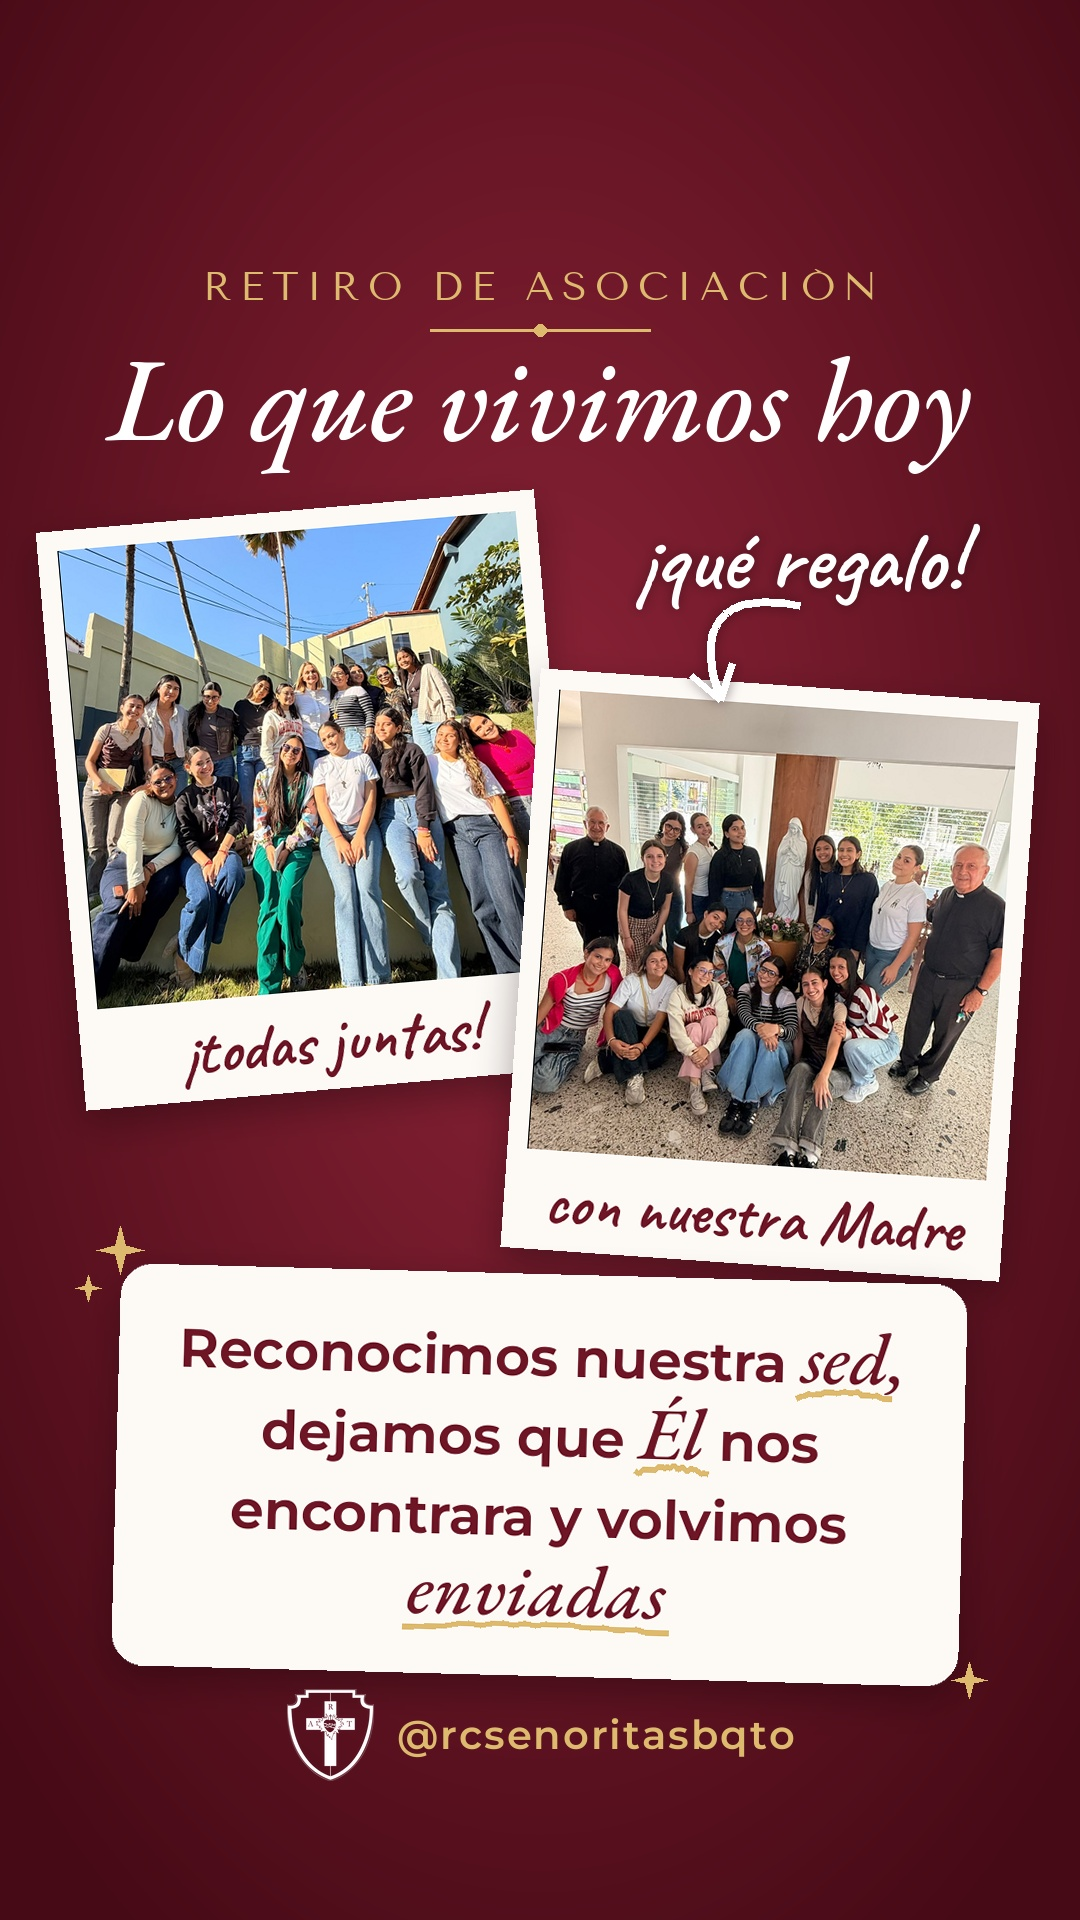
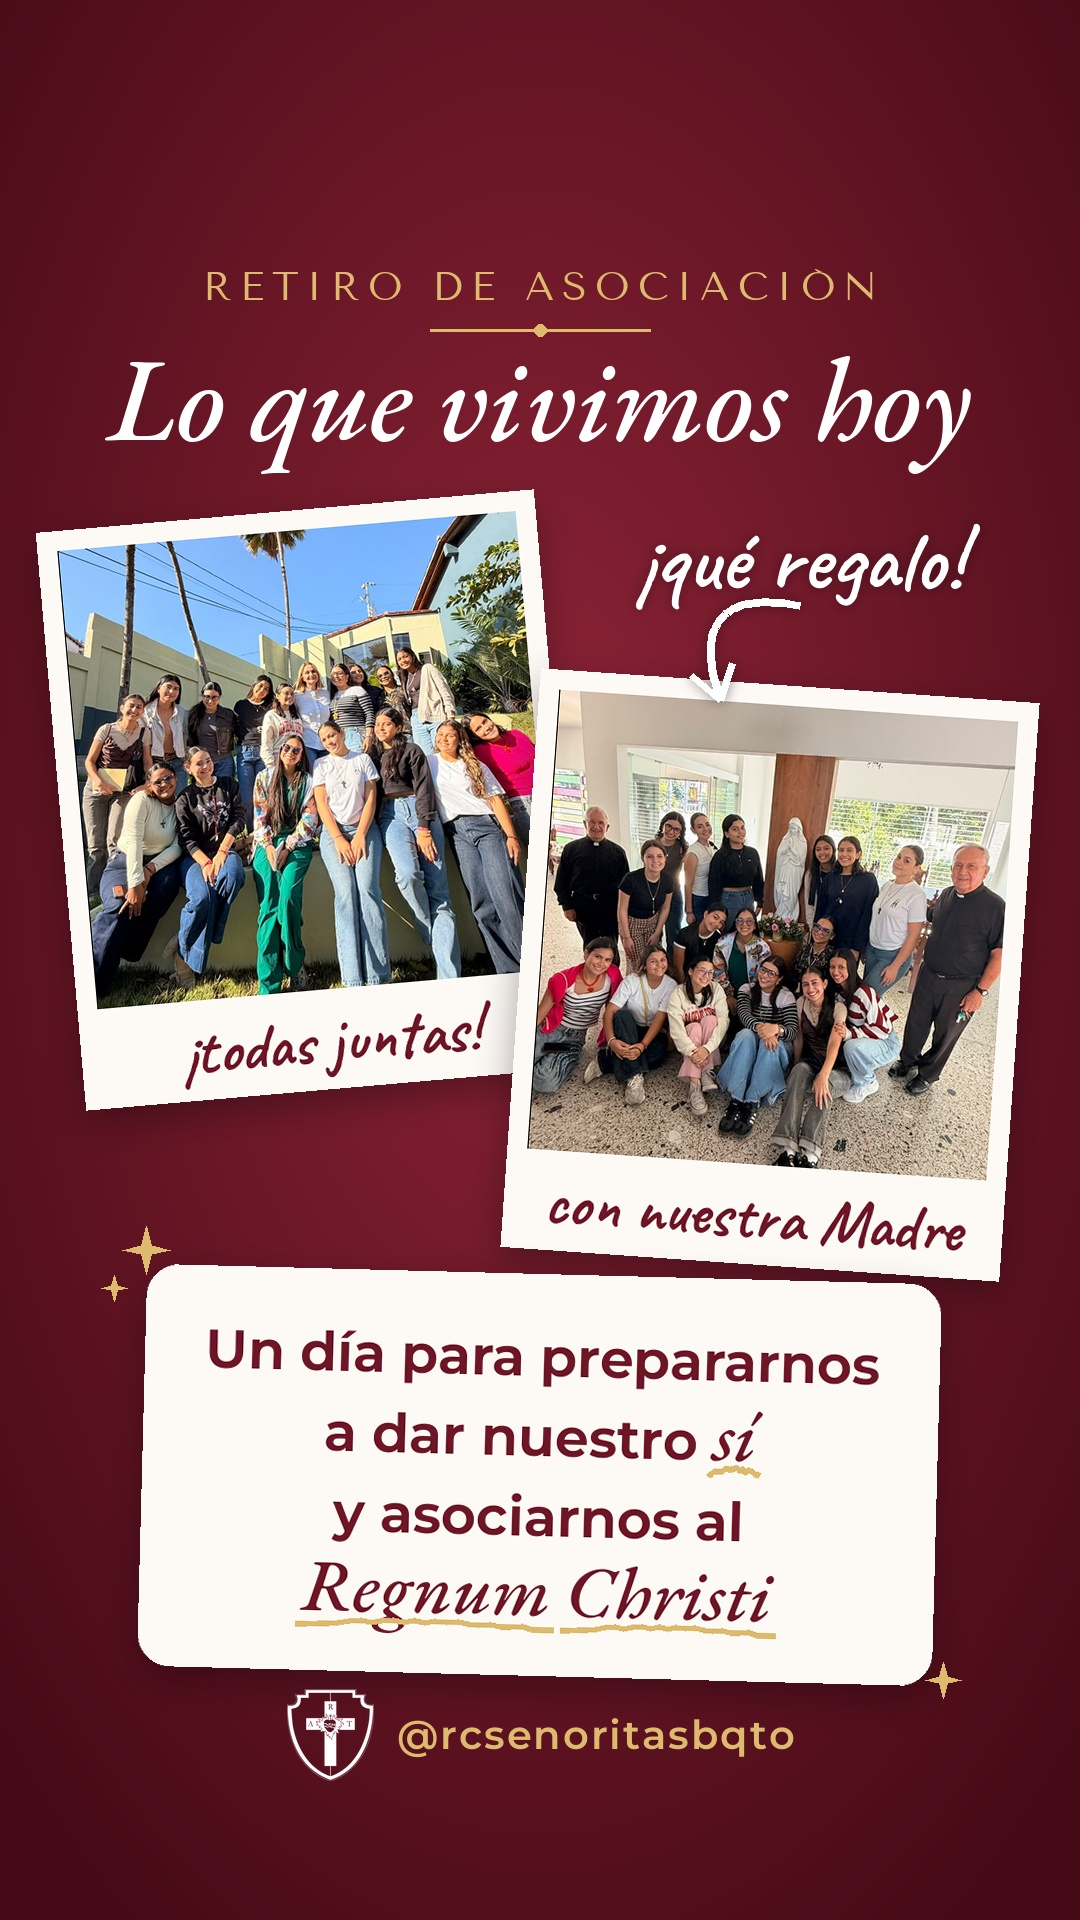
Historia: texto sobre la preparación para asociarse al Regnum Christi
Claude-Session: https://claude.ai/code/session_017vMZmaSnTKojd2CEV5FCna

Changed region(s): [[0.0917, 0.625, 0.825, 0.875], [0.8556, 0.6562, 0.9167, 0.9062]]

diff --git a/reel-retiro-asociacion/historia/story.py b/reel-retiro-asociacion/historia/story.py
@@ -39,10 +39,10 @@ R.place(cv, p1, 310, 800, 1.0, 5)
 R.place(cv, p2, 770, 975, 1.0, -4)
 
 # ---- tarjeta resumen
-lines = [[("Reconocimos", 0), ("nuestra", 0), ("sed,", 1)],
-         [("dejamos", 0), ("que", 0), ("Él", 1), ("nos", 0)],
-         [("encontrara", 0), ("y", 0), ("volvimos", 0)],
-         [("enviadas", 1)]]
+lines = [[("Un", 0), ("día", 0), ("para", 0), ("prepararnos", 0)],
+         [("a", 0), ("dar", 0), ("nuestro", 0), ("sí", 1)],
+         [("y", 0), ("asociarnos", 0), ("al", 0)],
+         [("Regnum", 1), ("Christi", 1)]]
 sans, serif = R.F("Montserrat.ttf", 54, 650), R.F("EBGaramond-Italic.ttf", 74, 500)
 space = sans.getlength(" ")
 lw = [sum((serif if a else sans).getlength(w) for w, a in ln) + space * (len(ln) - 1) for ln in lines]
